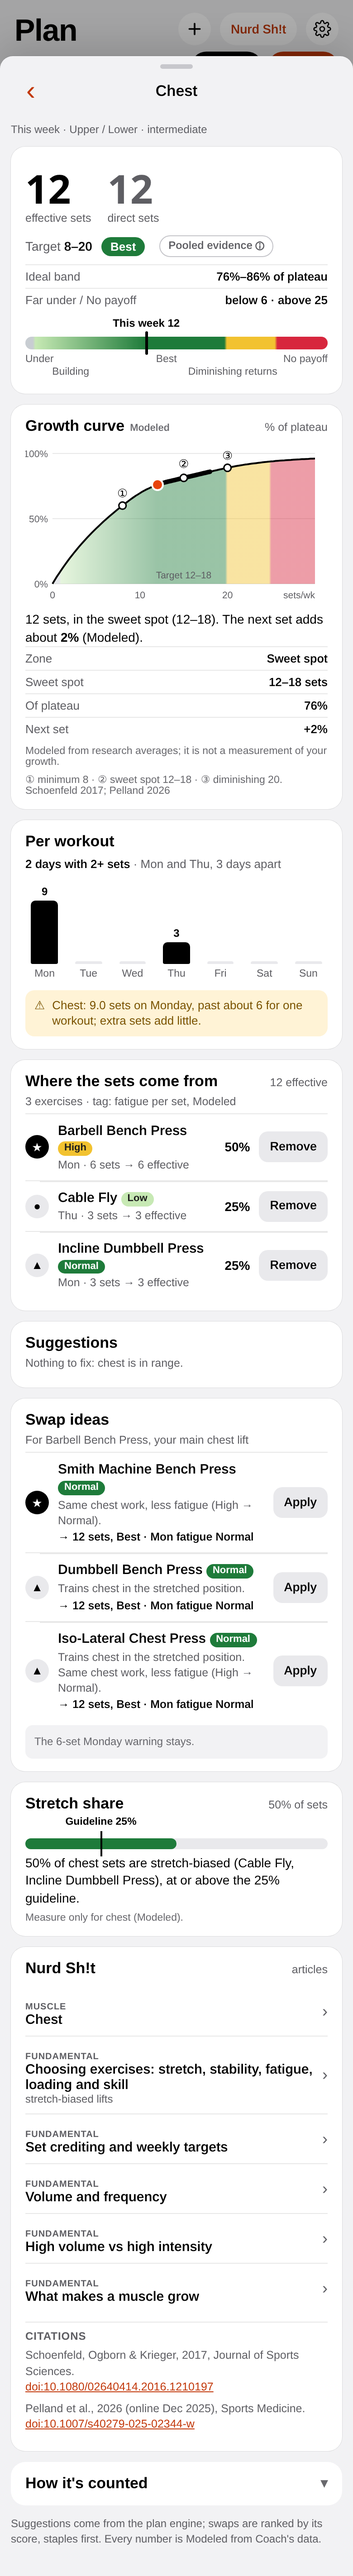
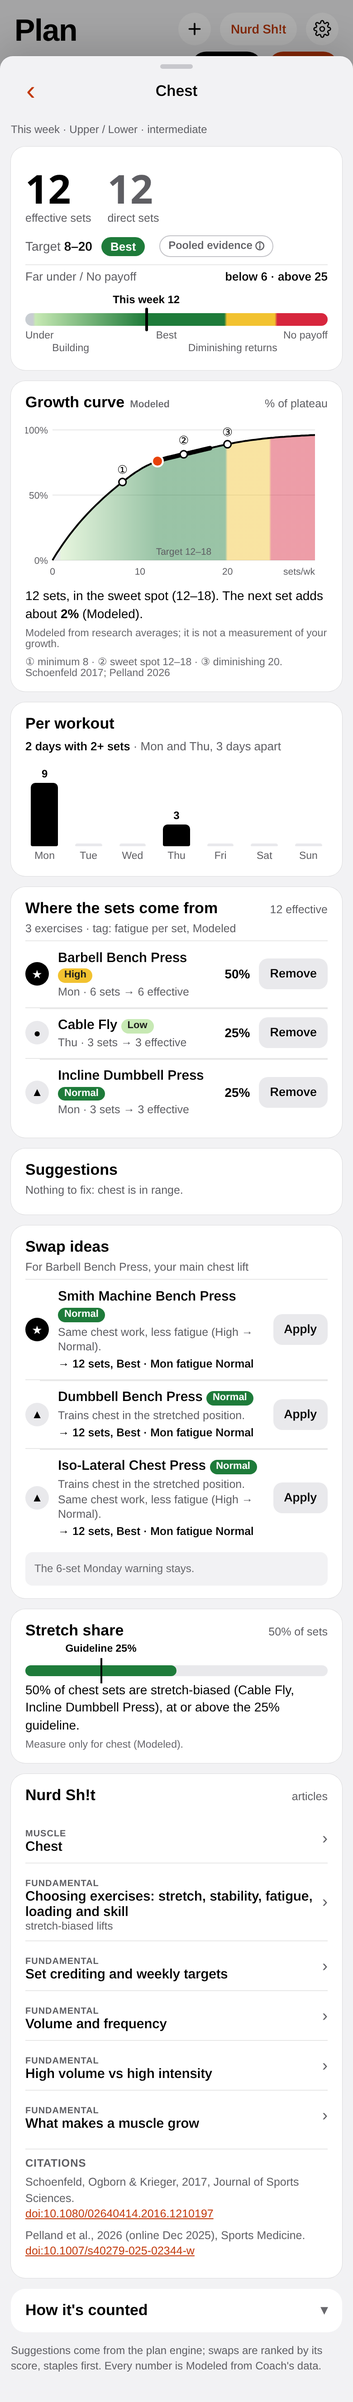
Storyboard vol16a (3): deep dive drops Zone/Sweet spot/Of plateau/Next set and Ideal band rows; per-workout note uses session_efficiency.limits_by_level (Coach frequency-notes 1744329c); No payoff from ramp breakpoints, far-under floored

diff --git a/storyboard/fullanalysis.js b/storyboard/fullanalysis.js
@@ -167,7 +167,7 @@ function deepHtml(m){const dt=RD(),d=DAYS(),lv=LV(),SH=sheetOf(dt,d,lv),P=diveOf
   const direct=contrib.filter(c=>c.role==='prime').reduce((a,c)=>a+c.sets,0);
   let h=`${appliedBar()}<div class="fa-dd" data-m="${m}"><p class="fa-scope">This week · ${esc(window.BOARD.state.name||'your plan')} · ${esc(lv)}</p><div class="card fa-c fa-hero"><div class="hero"><div><div class="n num">${f1(x)}</div><div class="l">effective sets</div></div><div class="dv"><div class="n num">${direct}</div><div class="l">direct sets</div></div></div>
    <div class="hrow"><span>Target <b>${S.level_min}–${S.max}</b></span>${pill(wk.zone)}<button class="evb" data-fa="evb" aria-expanded="false">${esc(evT.label)} evidence ⓘ</button></div><div class="evn" id="fa-evn">${esc(ev.note||'')} ${esc(evT.description||'')}</div>
-   <div class="kv"><span>Ideal band</span><b>${pc(C.ideal_band[0])}–${pc(C.ideal_band[1])} of plateau</b></div><div class="kv"><span>Far under / No payoff</span><b>below ${S.red_under_below} · above ${S.red_over_above}</b></div>`;
+   <div class="kv"><span>Far under / No payoff</span><b>${S.red_under_below>0?`below ${S.red_under_below}`:'none'} · above ${(MR().weeklyBp(dt,lv,m)||{}).red!=null?MR().weeklyBp(dt,lv,m).red:S.red_over_above}</b></div>`;
   const XP=v=>Math.min(100,v/XMAX*100),grad='linear-gradient(90deg,'+(()=>{const o=[];for(let v=0;v<=XMAX+1e-9;v+=0.25)o.push(`${zoneW(dt,lv,m,v).hex} ${XP(v).toFixed(2)}%`);return o.join(',')})()+')';
   const mid=(a,b)=>XP((a+b)/2);
   h+=`<div class="barw"><span class="mt" style="left:${Math.max(14,Math.min(86,XP(x)))}%">This week ${f1(x)}</span><div class="bar" style="background:${grad}" role="img" aria-label="This week ${f1(x)} sets on the colour bar"><span class="mk" style="left:${XP(x)}%"></span></div></div>
@@ -175,7 +175,6 @@ function deepHtml(m){const dt=RD(),d=DAYS(),lv=LV(),SH=sheetOf(dt,d,lv),P=diveOf
   const Z=C.zones||{};const rd=C.zone==='below_min'?`under the ${S.level_min}-set minimum`:C.zone==='sweet_spot'?`in the sweet spot (${Z.sweet[0]}–${Z.sweet[1]})`:C.zone==='growth'?`between the ${S.level_min}-set minimum and the sweet spot`:C.zone==='upper'?`above the sweet spot`:C.zone==='none'?'not trained':`past the diminishing point (${Z.diminishing})`;
   h+=`<div class="card fa-c"><div class="ch"><h2>Growth curve<span class="mod">Modeled</span></h2><small>% of plateau</small></div>${curveSvg(dt,lv,m,C,S,XMAX)}
    <p class="read">${f1(x)} sets, ${rd}. The next set adds about <b>${pc(C.next_set)}</b> (Modeled).</p>
-   <div class="kv"><span>Zone</span><b>${esc({below_min:'Under the minimum',growth:'Growing',sweet_spot:'Sweet spot',upper:'Upper',plateau:'Plateau',none:'Not trained'}[C.zone]||C.zone)}</b></div>${Z.sweet?`<div class="kv"><span>Sweet spot</span><b>${Z.sweet[0]}–${Z.sweet[1]} sets</b></div>`:''}<div class="kv"><span>Of plateau</span><b>${pc(C.stimulus)}</b></div><div class="kv"><span>Next set</span><b>+${pc(C.next_set)}</b></div>
    <p class="src">Modeled from research averages; it is not a measurement of your growth.</p>
    ${Z.sweet?`<p class="src">① minimum ${Z.min} · ② sweet spot ${Z.sweet[0]}–${Z.sweet[1]} · ③ diminishing ${Z.diminishing}. Schoenfeld 2017; Pelland 2026</p>`:''}</div>`;
   // per workout + spacing (days only)

diff --git a/storyboard/logic/freqnotes.js b/storyboard/logic/freqnotes.js
@@ -15,13 +15,13 @@ function notes(dt,days,level,templates){const T={};templates.forEach(t=>T[t.id]=
   const fmin=2,eff={};train.forEach(d=>eff[d.day]=PC.eff(dt,d.tiles));const FM=dt.rules.frequency_muscles,ORDER=PC.ORDER;
   for(const m of FM){const hit=train.filter(d=>eff[d.day][m]>=fmin).map(d=>d.day);
     if(train.length>=2&&hit.length===1)out.push(N('freq_one_day',[m],null,{day_name:DAYN[hit[0]]}));else if(!hit.length)out.push(N('freq_none',[m]));else if(hit.length>=2)out.push(N('freq_two_plus',[m],null,{n:hit.length}))}
-  for(const f of fl){if(f[1]==='consecutive_high_volume'){const nx=ORDER[ORDER.indexOf(f[2])+1];out.push(N('back_to_back',[f[3]],null,{day1:DAYN[f[2]],day2:DAYN[nx]}))}
-    /* vol16a: {limit} = the engine's one-workout limit for that muscle (rules session_efficiency limits for the goal + level,
-       PCHECK.seLim; falls back to sets - over from the flag). The note only fires when the day really is past that limit. */
-    if(f[1]==='junk_volume_session'||f[1]==='session_efficiency'){let lim=PC.seLim?PC.seLim(dt,f[3],level):null;if(lim==null&&f[1]==='session_efficiency'&&f[5]!=null)lim=RANK.pyRound(f[4]-f[5],1);
-      if(lim==null||f[4]>lim+1e-9)out.push(N('crowded_session',[f[3]],'session',{sets:fmtPy1(f[4]),day_name:DAYN[f[2]],limit:lim==null?'':(Number.isInteger(lim)?String(lim):fmtPy1(lim))}))}}
+  for(const f of fl){if(f[1]==='consecutive_high_volume'){const nx=ORDER[ORDER.indexOf(f[2])+1];out.push(N('back_to_back',[f[3]],null,{day1:DAYN[f[2]],day2:DAYN[nx]}))}}
+  /* vol16a (Coach ruling): the per-workout note fires when r1(effective sets for a muscle in one workout) > rules
+     session_efficiency.limits_by_level[level][muscle], and {limit} is that same value (intermediate chest 10); not the Efficient trim target. */
+  const LBL=((((dt.rules.rules||[]).find(r=>r.id==='session_efficiency')||{}).limits_by_level)||{})[level]||{};let crowded=0;
+  for(const d of train)for(const m of Object.keys(eff[d.day])){const lim=LBL[m];if(lim==null)continue;const x=RANK.pyRound(eff[d.day][m],1);if(x>lim+1e-9){crowded++;out.push(N('crowded_session',[m],'session',{sets:fmtPy1(eff[d.day][m]),day_name:DAYN[d.day],limit:String(lim)}))}}
   if(train.length>=2&&FM.every(m=>Object.keys(eff).filter(d=>eff[d][m]>=fmin).length>=2)){out=out.filter(n=>n.id!=='freq_two_plus');out.push(N('freq_all_main_twice',[]))}
-  if(!fl.some(f=>f[1]==='junk_volume_session'||f[1]==='session_efficiency'))out.push(N('session_cap_ok',[]));
+  if(!crowded)out.push(N('session_cap_ok',[]));
   const imp=((dt.rules.check_priority||{}).importance||{}).muscle_weight||{};
   const key=n=>[n.polarity!=='negative'?1:0,n.muscles.length===0?1:0,n.muscles.length?-(imp[n.muscles[0]]||0):0,n.muscles[0]||'',n.id];
   const cmp=(a,b)=>{for(let k=0;k<a.length;k++){if(a[k]<b[k])return -1;if(a[k]>b[k])return 1}return 0};
